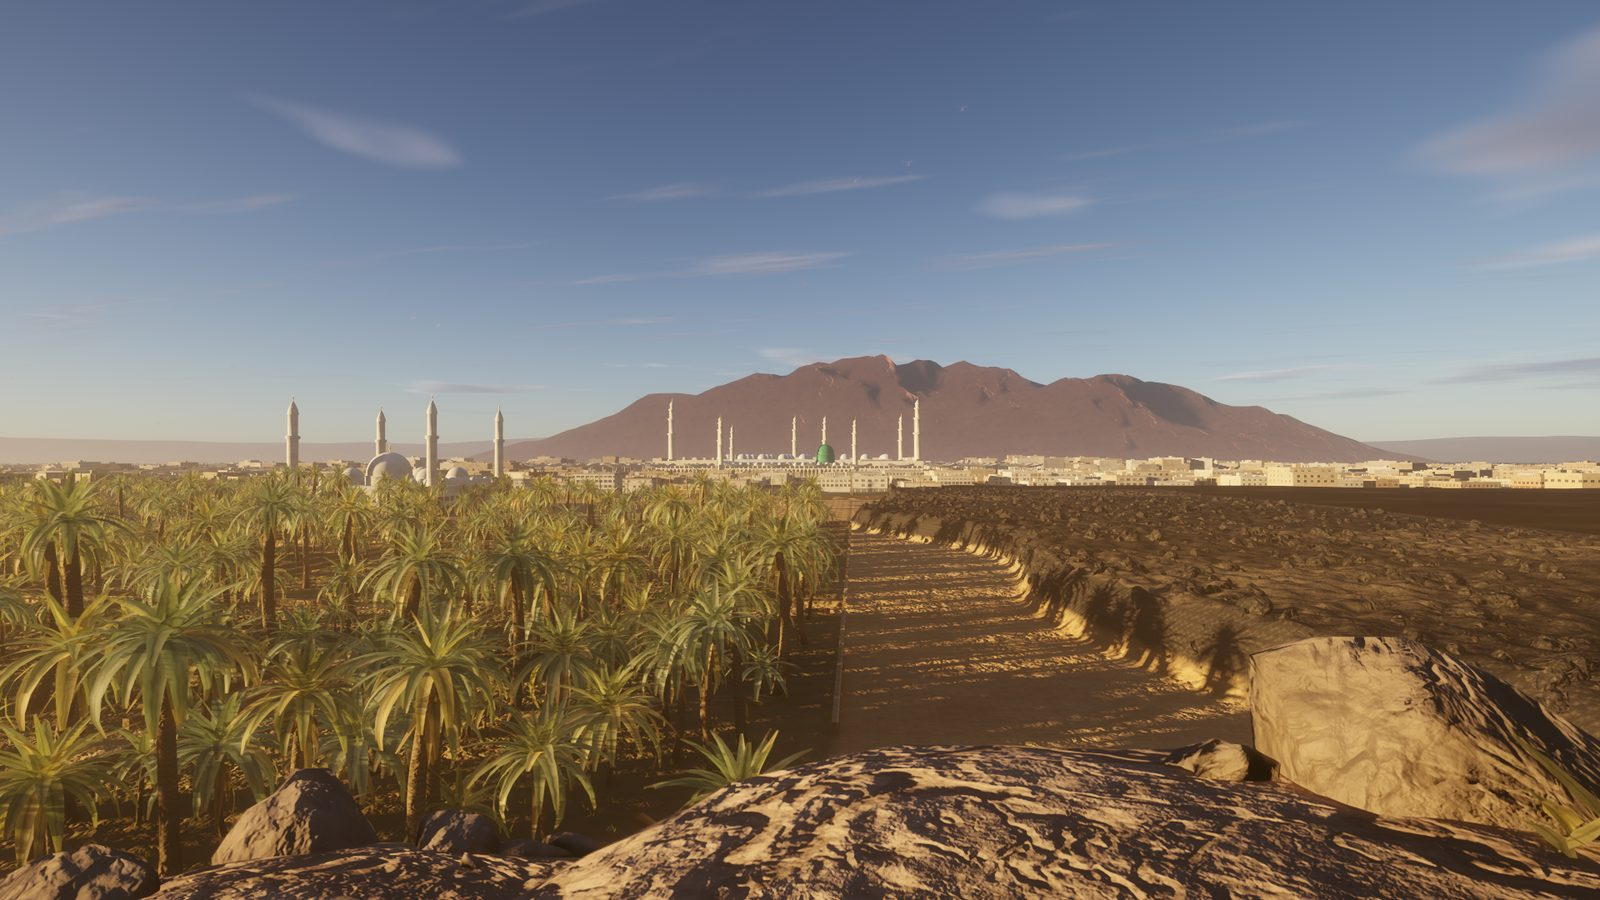
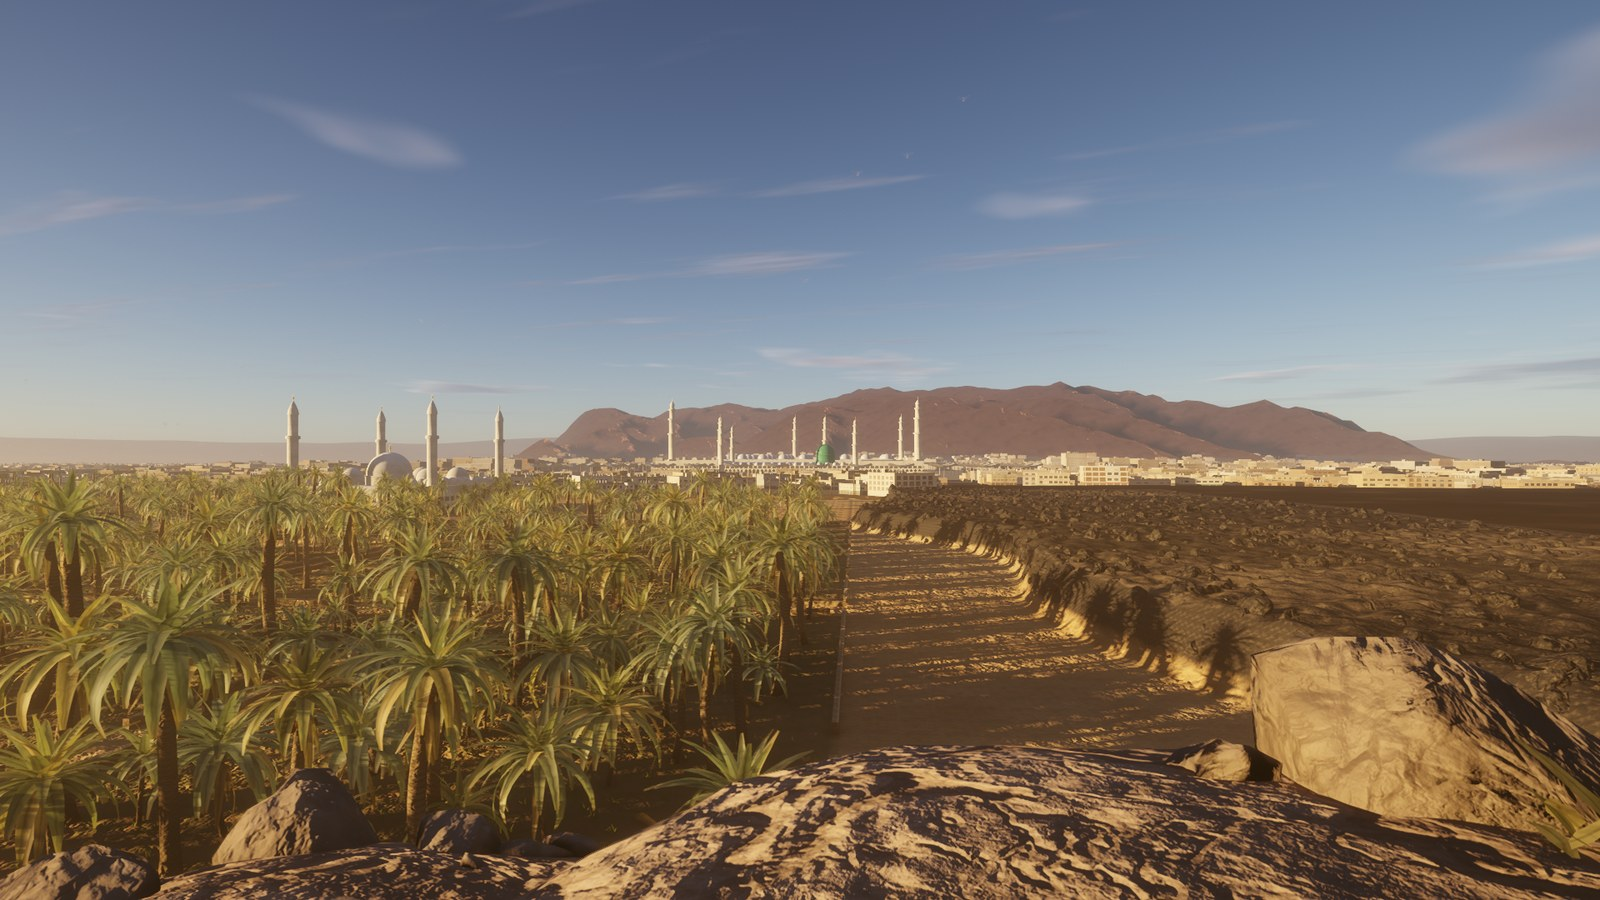
README screenshots: realism stage 3; NOTES: stage 3 shipped by Moey's decision

diff --git a/NOTES.md b/NOTES.md
@@ -4,6 +4,9 @@ Built with the `worldsmith` skill (`~/.shared/skills/worldsmith`). Brief: `promp
 
 ## State (update after every phase)
 
+- Realism stage 3 SHIPPED 2026-11-19 08:45 AEDT by Moey's decision despite its gate failures (main 8927c62, live
+  byte-identical, sha 4843e61d). Open: bright detail -2.5% vs stage 2 and a critic major (Uhud still generic).
+  README screenshots from verify/s3-dem-t1. Next if resumed: Uhud ridge detail (gullies, banding) at far range.
 - Realism stage 3 STOPPED with a gate report (2026-11-18 ~21:30 AEDT), not shipped; live stays at stage 2.
   On branch `realism-s1`: real Uhud/Ayr relief from Copernicus GLO-30 (3551cdb, data in src/data.js via
   tools/pack-data.py; downloads in /home/moey/Dev/research/madinah-horizon-data/, approved by Moey for all worlds).
